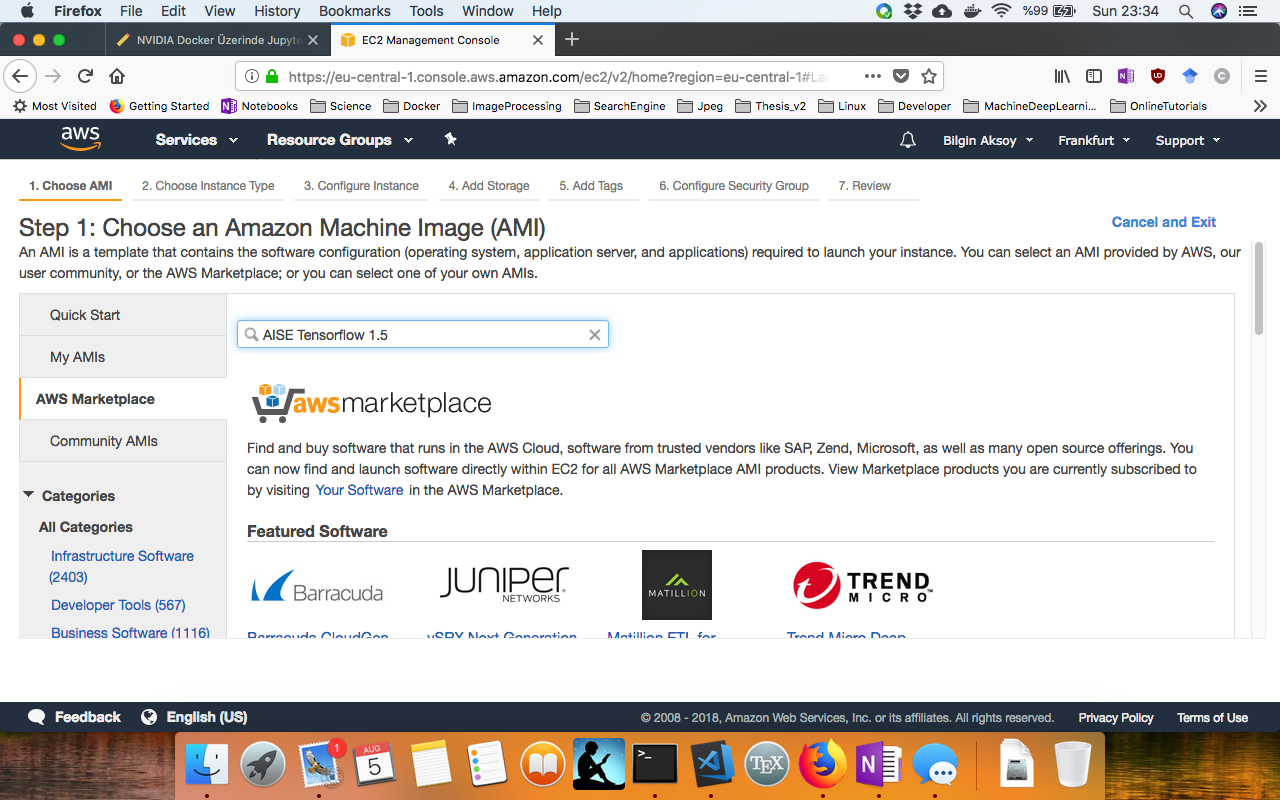
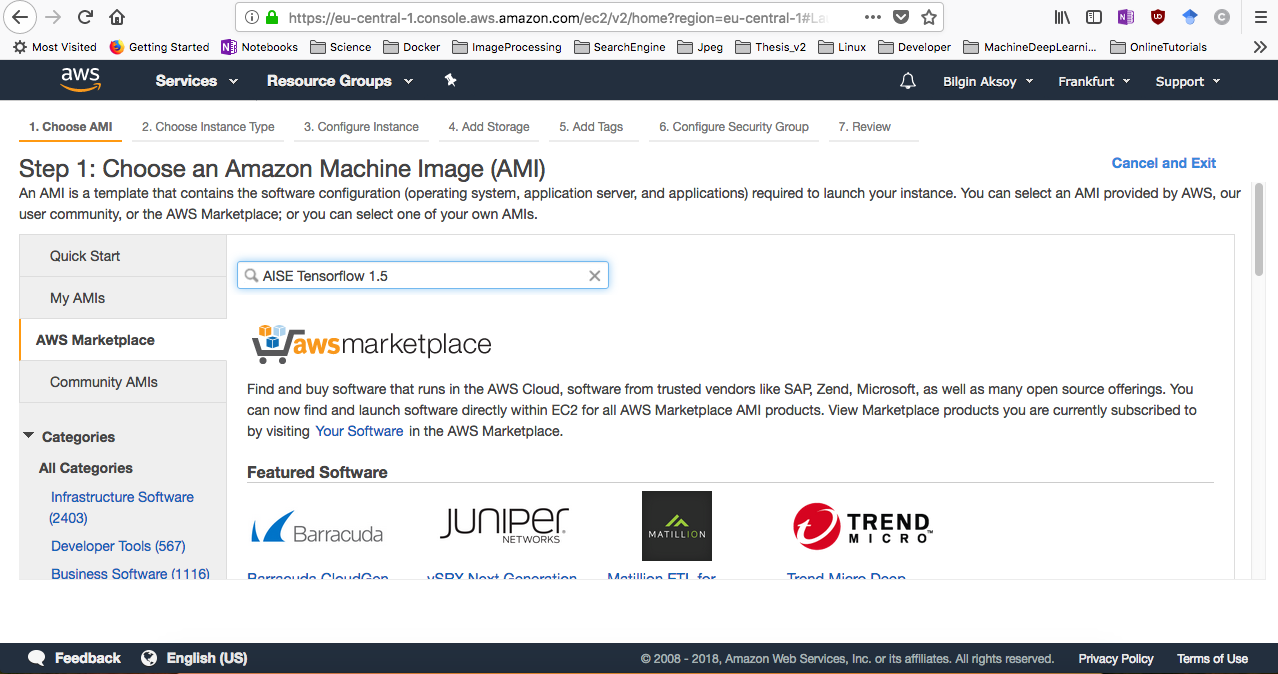
Typo corrections and cropping images.

diff --git a/AWS_Setup.md b/AWS_Setup.md
@@ -102,7 +102,7 @@ Same instructions but change the 4th and 5th with the instructions as metioned h
 
 4. First you should choose an AMI (software package). During the semester we will use “AISE Tensorflow 1.5 Python 3.6 CUDA 9 Notebook”. 
 
-![AMI Select](/assets/AWS_Setup_F_18/004_Instances.png?raw=true)
+![AMI Select](/assets/AWS_Setup_F_18/004_Instances_2.png?raw=true)
 
 Search AMI, click _Select_ from _Dashboard_, click _Launch Instance_ button and, click _Continue_ from the pop-up window.
 
